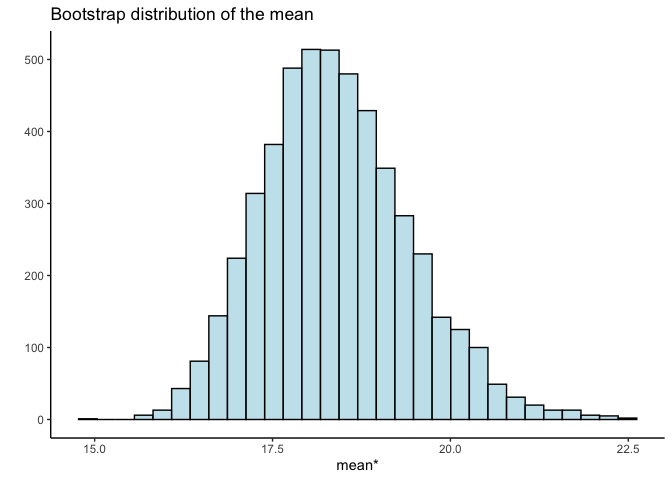
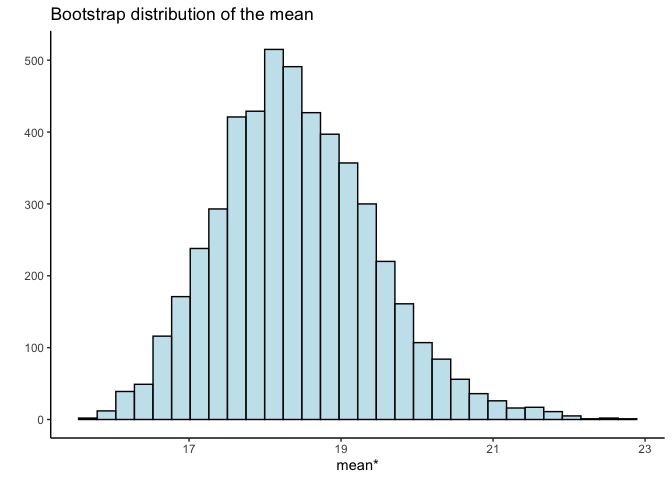
finalize tests

diff --git a/README.md b/README.md
@@ -46,19 +46,19 @@ median_stat <- bs_loc_stat(tips$TipPercent, stat = "median")
 str(median_stat)
 #> List of 5
 #>  $ mean         : num 17.2
-#>  $ s_boot       : num 0.915
+#>  $ s_boot       : num 0.908
 #>  $ percentile_ci: num [1:2] 16 19
 #>  $ pivotal_ci   : num [1:2] 14.8 17.8
-#>  $ boot_dist    : num [1:5000] 16.2 18.1 18.5 16.9 16.4 ...
+#>  $ boot_dist    : num [1:5000] 17.6 18.2 18.9 16.2 16.9 ...
 
 sd_stat <- bs_scale_stat(tips$TipPercent, stat = "sd")
 str(sd_stat)
 #> List of 5
 #>  $ mean         : num 5.48
-#>  $ s_boot       : num 1.42
-#>  $ percentile_ci: num [1:2] 2.85 8.16
-#>  $ pivotal_ci   : num [1:2] 4.07 11.67
-#>  $ boot_dist    : num [1:5000] 6.87 8.94 3.51 8.39 5.8 ...
+#>  $ s_boot       : num 1.43
+#>  $ percentile_ci: num [1:2] 2.83 8.14
+#>  $ pivotal_ci   : num [1:2] 4.09 11.76
+#>  $ boot_dist    : num [1:5000] 5.71 6.86 6.05 5.77 4.5 ...
 ```
 
 You can also get a dataframe of the bootstrap distribution.
@@ -67,7 +67,7 @@ You can also get a dataframe of the bootstrap distribution.
 boot_dist <- bootstrap(tips$TipPercent, stat = "mean")
 
 head(boot_dist)
-#> [1] 18.99333 17.39667 19.33333 19.98667 19.06000 18.80667
+#> [1] 18.01667 18.68333 19.35000 17.54000 17.67667 20.11333
 ```
 
 You can use bs_plot to plot a bootstrap distribution.
